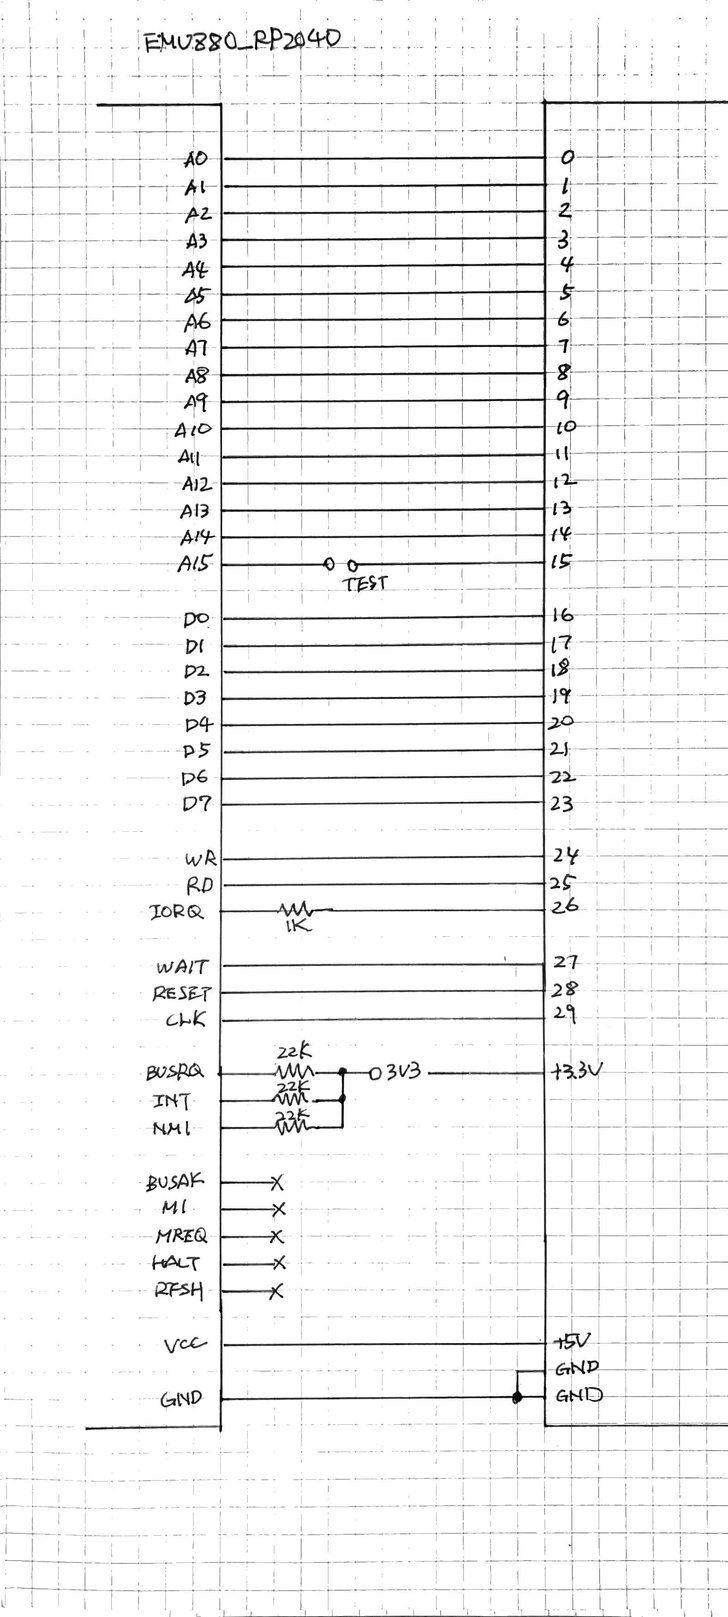
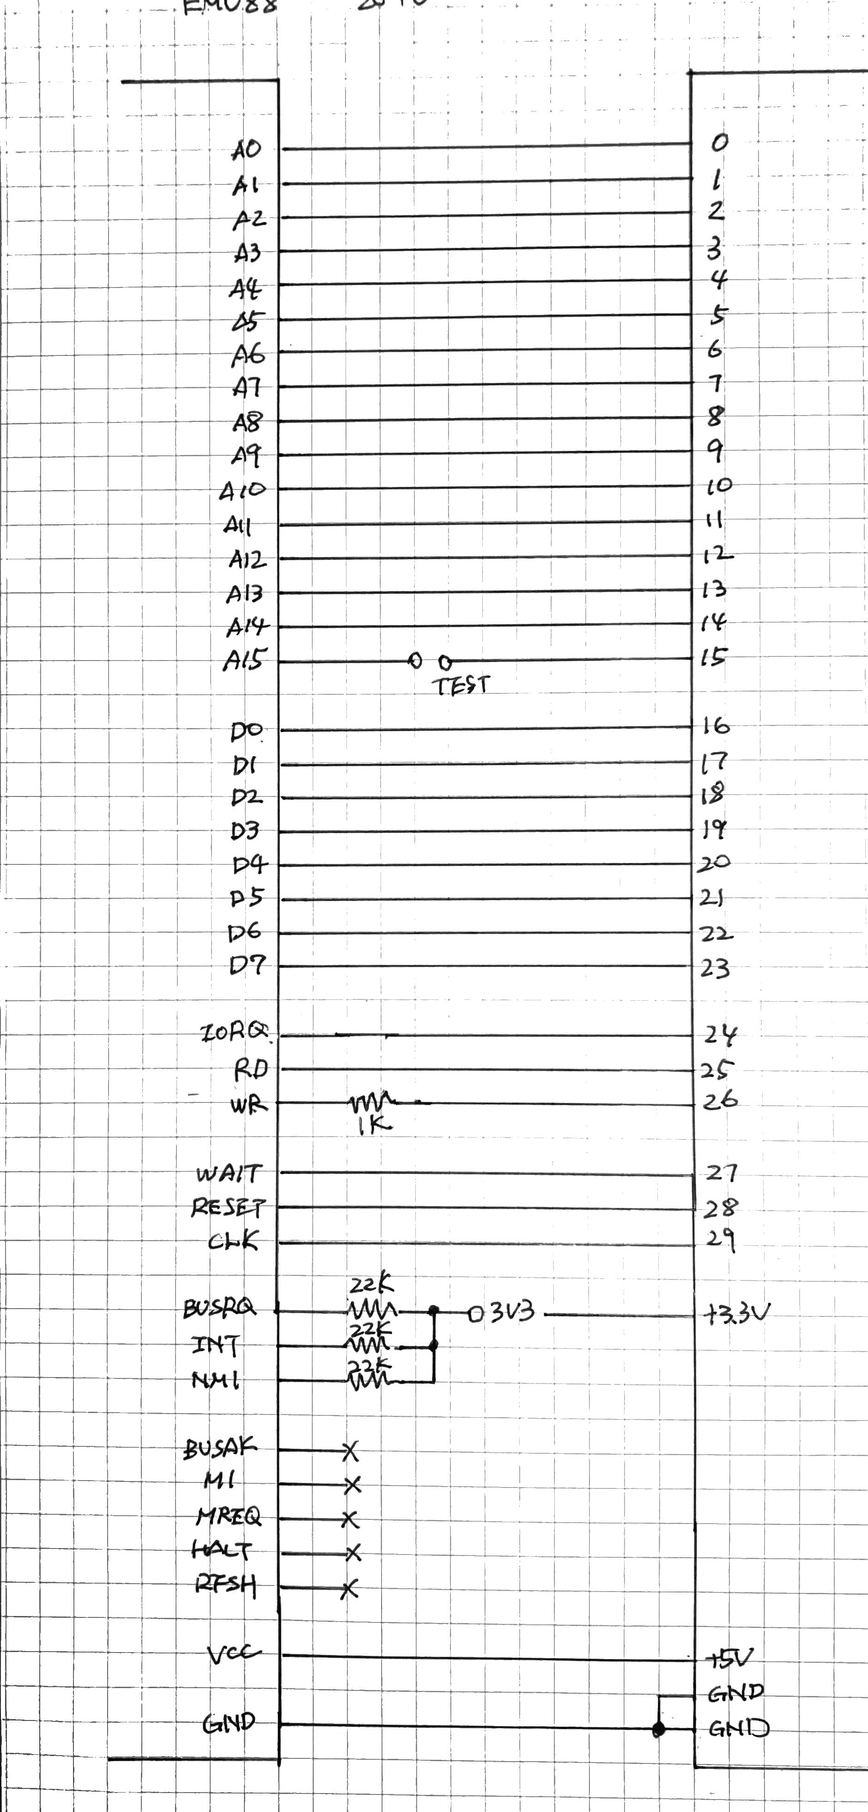
main: add some docs to README.md, AE_RP2-4-_DESIGNMEMO.md

diff --git a/doc/AE_RP2040_DESIGNMEMO.md b/doc/AE_RP2040_DESIGNMEMO.md
@@ -1,2 +1,314 @@
 # EMUZ80_AE_RP2040 設計メモ
 
+AE-RP2040基板によるトライ
+
+## 数命令実行後、限られた値しかフェッチしなくなり、00、80などを実行してしまう。
+
+アドレスバスを見る限り、正しく出しているように見える。いくつか振ってみたが、症状は変わらず。
+
+## RP2040のERRATA-E5
+
+* https://zenn.dev/koron/articles/f1b54678d90f76 に解説がある。
+* USB デバイスコントローラがリセットから抜け出せない、対策のためGPIO15の先につながっているデバッグ回路を使う。対策には800us掛かる。その間はGPIO15は使えない。という話。AE-RP2040ではGPIO15 に RD 受信に使っているので、使えないタイミングが存在するのはまずい。
+* ということで、データシートで示される回避策(`PICO_RP2040_USB_DEVICE_ENUMERATION_FIX=1`)を `CMakeFile.txt` で定義してみた。
+
+```
+set(PICO_RP2040_USB_DEVICE_ENUMERATION_FIX 1)
+```
+
+これにより、数命令しか実行できない、という状況はなくなったように見える。
+
+## INC (HL) を連続して行ったとき、前の命令で書き込んだ値を次の命令のReadサイクルで読み出していない。
+
+<img src="../img/201-timechart-inc-hl-issue.png"/>
+
+INC (HL)の2サイクル目でメモリ読み出し、３サイクル目で(インクリメントした値を)メモリ書き込みを行う。66をリードしてインクリメントして67を書き込んだ次の命令で、66を再度リードしている。
+
+〇書き込みサイクルで書き込む値が1増えた値でない。
+
+<img src="../img/202-inc-hl-bad-behavior.png"/>
+
+67をリード・インクリメントして書き出す値が6Eになっている。
+
+〇ライトサイクルで、データバスの一部信号が安定していない。
+
+上図のライトサイクルで、D2がぎざぎざになっている。
+
+上記の問題はこの症状から引き起こされていると考えている。
+
+残念ながらこの症状の原因究明・対策が打てていない。
+
+> 後で示すとおり、PIO の IN 端子指定で COUNT が指定できない(無関係のビットも読み込んでしまう)ことが原因だった。
+
+〇同じ回路で Pico2 を使うと、問題なく動作する。
+
+AE-RP2040で動作させることができなかったので、メモリリード・ライトサイクル動作を確立するために、Pico/Pico2を使うことにした。WeAct RP2350B board を使いリードライトサイクルで苦労せず動作させることができていたので、RP2040 とRP2350A で動作の違いがあるなら、そこからヒントを得ようと考えたためである。
+
+Pico/PIco2につなぐデータバスを11本(A0-A10)、2kB分だけに抑えると、Raspberry Pi Pico/Pico2 で Z80駆動ができる。EMUBASIC の動作は無理だが、数バイト～数十バイトの機械語プログラムなら 2kB あれば十分である。
+
+|Pico/Pico2 GPIO|Z80 信号|
+|---|---|
+|GPIO0-10|A0-A10|
+|GPIO11-18|D0-D7|
+|GPIO19|/RD|
+|GPIO20|/WR|
+|GPIO21|/IORQ|
+|GPIO22|/WAIT|
+|GPIO26|/RESET|
+|GPIO27|CLK|
+|GPIO28|TEST|
+
+Pico/Pico2 で端子に出ているGPIOすべてを使っている。
+
+テストポイント5(TP5)にGPIO25が取れるが、OUTPUT(Pico/Pico2 -> Z80)として使うにしてもHigh出力ができないため、実質的に使えない。GPIO25 に High を出力しても、TP5の電圧は緑LEDの電圧降下は、1.8～2.2V 程度でこれ以上の電圧に上がらないので、Z80 入力に印可しても Highと認識される気がしない。
+
+@DragonBallEZ さんの Pico2ROMEmuBR(https://github.com/kyo-ta04/Pico2ROMEmuBR)では、TP5から信号を引き出しているが、トランジスタを介してZ80のRESET駆動に使用しているのでさすがである。
+
+<img src="../img/203-pico2-gpio250-schematic.png"/>
+
+私GPIO25をOUTPUT端子として使わなかったのは、OUTPUT端子として必要なのは/WAIT, /RESET, CLK の3本だけでGPIO26-28で足りているからである。
+
+/WAIT,/RESET,CLKのいずれかをGPIO25に逃がしてINPUT端子(/RD,/WR,/IORQ)のいずれか1本をGPIO26-28に引っ越しさせて、A11をつないで4kBまで拡張することも考えられるが、今回はその手は使わなかった。
+
+私は GPIO26-28 を INPUT 端子として使うつもりはない。この3端子は入力として使うときに 5V まで引っ張ることができない。抵抗を挟んで接続すれば大丈夫なのだが、High -> Low に引っ張るときに 100ns 程度掛かるらしいので、Z80 6MHz で駆動したい立場から避けたいと考えた。
+
+TP5から引き出すと取り回しが面倒だというのもある。実験用の回路にそこまでする根性はなかった。
+
+## RP2350 Pin Assign
+
+ピン割り当てを変更し、
+
+```
+D0-D7: 24-31
+RD,WR,IORQ,WAIT: 16,17,18,19
+CLK,INT,RESET,BUSRQ: 40,41,42,43
+```
+
+とした。 
+
+WeAct RP2350B CoreBoard で試作した際に、D0-D7: 16-23 と割り当てていたが、当初、D7 が High にならない問題が発生した。結局 CoreBoard 上のR18, D6, R16 をむしり取った後は期待通り動作した。
+
+GPIO23 は、以下のようなスイッチ回路となっており、プルアップ抵抗または D6 により電圧が十分上げられない(または下げられない)問題が発生していた。
+
+<img src="../img/204-weact-rp2350b-gpio23-sw-schematic.png"/>
+
+RP2350B CoreBoard は安価に手に入る(980円で買える)ので、これを使えるようにしたい。よって、GPIO23 を使わずに済むピン割り当てを考えて、上記に至った。
+
+従来 16-21 だったデータバスを GPIO24-31 に移す。GPIO25 は LED が接続されているが、こちらは問題なく動作する。GPIO16-23 は Z80 の制御信号(Z80側の出力端子)を割り当てる。現状 Z80 制御出力で必要なものは、 RD,WR,IORQの3本で、WAITは制御入力(RP2350B側から見ると出力)なので、GPIO40以後に割り当てるのが原則だが、なんとなくGPIO16-23 の範囲で割り当てた。足りなくなるとGPIO40以後に移してもよいかもしれない。
+
+Pimoroni RP2350B 基板での試作は動作している。
+
+### CLK端子を RP2350B GPIO端子と直結した。
+
+Z80 の CLK 端子は入力電圧範囲が厳しく、High 時に 3.5V 以上を要求する。そう考えて 74HC00 を挟んでドライブしていたのだが、今回は 74HC00 ゲートなしの直結で動作させている。
+
+これでも動作する様子なのでよいだろう。@vintagechips さんの EMUZ80 に敬意を表して、秋月B基板サイズ上に Z80 と RP2350B のみを載せて2チップのみで動作させたい。ゲートを挟まずCLKと直結して動作するかを試してみた。
+
+## RP2040 と RP2350 との差異
+
+Z80 + Pico/Pico2 で挙動を比較した。
+
+Pico2だと動くが、Picoだと動かない。
+
+Z80クロックを変えると挙動が変わる。フェッチするデータが大きく変わったり、WR時のD1だけぶるぶる震えたりする。
+
+### RP2040/RP2350の挙動を調べる。
+
+データシートを見比べる。
+RP2350データシートの「RP2040との違い」の説明の中に、`mov dst, pins` の時のデータが
+
+```
+RP2350: in_countビットより上はマスクされる。
+RP2040: マスクされず32ビット分のデータを読み込む
+```
+
+とある。これだ。
+
+※2つの記述を並べて和訳を付ける。
+
+`mov pc, pins` なので、ステートマシンのプログラムカウンタに直接代入する。この値が 0 か 1か(2以上にならない)ことを想定してPIO機械語プログラムを組んでいる。RP2350は `IN_COUNT = 1` として、ビット0のみ入力され、ビット１以上は0となるようにしている。
+
+RP2040では、`IN_COUNT` フィールドが存在しないので、(API関数もない)指定しようがない。RDの上位ビットのピンの値も読み込まれて、PCに代入されてしまう。アドレス2以上にはコードを置いていないので、何を実行するのか予測できない。多分そういうことが生じているのだろう。
+
+* PicoROMのコードでは、CE/OEの上位ビットはD0-D7がある。
+* D0-D7に対して、inover の値を LOW としている。
+* inoverとは、GPIO入力したときの各ピンの扱い、LOWとは「常に0」とするということ。
+* PicoROMでは、D0-D7は「出力に用いる、データの読み込みはしない」ので、「読み込んだら常に0とする」でも構わない。
+
+PicoROMでは、ピン配置を工夫することで、下位2ビットのみを確実にPCに代入するようにしている、と思われる。
+
+本システムではどうするか？出力ピン4本の手前にRDをつなげばよいが、出力4本は存在しない。AE-RP2040ならば、
+
+|||
+|---|---|
+|29|CLK
+|28|RESET
+|27|WAIT
+|26|RD
+
+ピン26はADCで5V耐性はないが、1kΩ抵抗を直列に接続することで壊れず動作する事例が報告されているので、それを使う。RP2040はGPIOは30本で、GPIO30,31は存在しない。存在しないピンは読み込むとゼロになるはず、なので、GPIO27,28,29に inover LOWを指定することで動くはず。
+
+試作で使用しているPicoでは、
+
+||||
+|---|---|---|
+|19|RD
+|20|WR
+|21|IORQ
+|22|WAIT
+
+だが、RDとIORQを入れ替えると、RDの上は、
+
+|22|Out|WAIT
+|23|Out|SMPS Power Save Pin
+|24|In|VBUS sense
+|25|Out|user LED
+
+となる。22,23,25は出力ピンなので入力オーバライドをLowに固定しても構わない。inover Lowとすると、pindir プログラムをアドレス8,9に割り当ててやればうまく動作しそうだ。
+
+GPIO24も inover LOW にして起動するかのあたりも見ておこう。動作するなら、現状通りアドレス0,1に割り当てられる。
+
+|||
+|---|---|
+|19|RD
+|20|WR
+|21|IORQ
+|22|WAIT
+|23|(SMPS Power Save in)
+
+RDの上4ビットのうち、WAITに input override が効くようにできれば、
+
+```
+.program set_pindirs
+.origin 0
+.side_set 4 pindirs
+    mov pc, pins side 0xf
+    mov pc, pins side 0x0
+    mov pc, pins side 0xf
+    mov pc, pins side 0x0
+    mov pc, pins side 0xf
+    mov pc, pins side 0x0
+    mov pc, pins side 0xf
+    mov pc, pins side 0x0
+```
+
+PIO機械語で下3ビットをカバーすることで動作するはず。
+
+```
+    // input override
+    gpio_set_input_enabled(WAIT_Pin, false);
+    gpio_set_inover(WAIT_Pin, GPIO_OVERRIDE_LOW);
+    gpio_set_slew_rate(WAIT_Pin, GPIO_SLEW_RATE_FAST);
+```
+
+を入れると input override が効くはずだ。
+
+### input override を使ってみる
+
+試したら、
+
+```
+pio_gpio_init(pio1, WAIT_Pin);
+```
+
+より下に置いたら動作した。上ではダメだった。
+PicoROM のコードは、
+
+```
+        pio_gpio_init(prg_data_output.pio(), BASE_DATA_PIN + ofs);
+        gpio_set_dir(BASE_DATA_PIN + ofs, true);
+        gpio_set_drive_strength(BASE_DATA_PIN + ofs, GPIO_DRIVE_STRENGTH_2MA);
+        gpio_set_input_enabled(BASE_DATA_PIN + ofs, false);
+        gpio_set_inover(BASE_DATA_PIN + ofs, GPIO_OVERRIDE_LOW);
+        gpio_set_slew_rate(BASE_DATA_PIN + ofs, GPIO_SLEW_RATE_FAST);
+```
+
+なので、`pio_gpio_init` の後ろで動かしている。これを見習って動作するようになった。
+
+<img src="../img/205-inc-hl-works-good.png"/>
+
+```
+#if 1
+    // inc (hl) loop
+    mem[0] = 0x21; LD (HL),0080H
+    mem[1] = 0x80;
+    mem[2] = 0x00;
+    mem[3] = 0x34; INC (HL)
+    mem[4] = 0x18; JR  $-1
+    mem[5] = 0xfd;
+    mem[6] = 0x0;
+#endif
+```
+
+このコードを動作させロジアナ結果を取った。
+機械語命令も格納したとおり、WRの波形も乱れず、
+`INC (HL)` でメモリ内容が確実にインクリメントされている。
+
+## EMUBASIC を動かそう
+
+Input override 対応でメモリR/Wサイクルは動作するようになった。
+
+ピン配置が
+
+||||
+|---|---|---|
+|24|RD|IN
+|25|WR|IN
+|26|IORQ|IN
+|27|WAIT|OUT
+|28|RESET|OUT
+|29|CLK|OUT
+
+なので、下3ビットに input override は掛けられない。よって、
+
+```
+.program set_pindirs
+.origin 0
+.side_set 4 pindirs
+    mov pc, pins side 0xf
+    mov pc, pins side 0x0
+    mov pc, pins side 0xf
+    mov pc, pins side 0x0
+    mov pc, pins side 0xf
+    mov pc, pins side 0x0
+    mov pc, pins side 0xf
+    mov pc, pins side 0x0
+```
+
+のように、機械語命令8個を並べて3ビット分のアドレスすべてをカバーするようにする。
+
+RDとWRを入れ替えるとIN 2本OUT3本になるので、機械語命令を4個に減らすことができる。次にこれをトライする。
+
+## シリアル出力を繰り返すとハマる。
+
+tinyUSB CDC を疑ったりしたが、結局ロジアナで停止位置を確認すると、そもそも IO Read/Write の処理に全く入っていないことが分かった。
+
+* ハングは常に OUT 命令の IOWriteサイクルで生じていた。WAITがかかるが解除されない。
+* Core1 ループ中の IO Read Write 処理を TOGGLE で挟んでも、ハング時、IO Write サイクルで WAIT が効いている状態で、TOGGLEが入っていない。
+* ここから、IO Read Write 処理に入らずに、その前で処理完結してしまっている。つまり、メモリライト処理に誤って入っていると分かった。
+* RP2040では、IORQ を非FTピンに割り当てているので、1kΩ抵抗を直列に挟んでいる。この抵抗のおかげで、IORQ 信号が変化するエッジがなまり、その分 IORQ が遅れる。
+* Z80のIO Read/Writeサイクルでは、Writeサイクルの場合、IORQ と WR は同時に Low になる。メモリWriteサイクルで、MREQ よりもWRがLow になるのと対照的である。このことに留意しておきたい。
+* よって、IO Write サイクルで IORQ == High, WR == Low の状態が生じることになり、メモリライトサイクルに落ち込んだと考えた。
+
+で、メモリリード処理とメモリライト処理の間に、`port = gpio_get_all();` を挟んだ。これで安定して動作するようになった。
+
+クロック上限は、17.0 分周、3.90MHz (125MHz/2/17.0) で動作する。ASCIIART.BAS実行時間は、5分09秒だった。
+
+## TODO
+
+* 1kΩ抵抗を WR に入れる、IORQ 直結を試す。メモリライトが高速化できるのではないか。
+* RP2040 の GPIO 端子を 5V系CPUにつなぐことについての説明を追記。
+* RP2350A/B では、ADC非対応の端子は、「IOVDDに通電されていれば　5.25Vまで掛けてもよい」と明記されているが、RP2040 ではその旨の記載はない。よって通常のCMOS端子になる。
+* 3.3V駆動のCMOS端子に5Vロジックをつなぐ場合、3.3V側OUT - 5V側INの場合は直結でよい、5V側OUT - 3.3V側INの場合は10kΩ程度の抵抗を挟むとよい、という話がある。5Vより低電圧ロジックを作るにあたり3.3Vと決めた際の背景の解説があり、その記述によるとそうらしい。
+* 安全を考えると、GPIO26-29で入力として使用する端子以外、GPIO0-25も10kΩ抵抗を挟むべきである。が、RP2040でもGPIO0-25(FT端子)は、GPIO26-29(ADC端子)よりも静電気保護回路を強化している旨は明記されている。また、GPIO26-29をINとして使用する際に1kΩを挟んで動作している(シンクロ波形付き)事例も報告されているので、GPIO0-25は直結、26-29は、入力として使用する場合は1kΩを挟むことで、EMUZ80 の美学「Simple is Beautiful」に殉じることにした。
+* 「動けばヨシ」を是としない場合は、本回路を無理に試さなくてもよい。RP2350B を使った2チップ構成で試していただければよいと思う。
+
+## IORQ を GPIO25 に移して 1kΩ抵抗を挟む
+
+IO Write サイクルで IORQ == High, WR == Low の状態が生じるのがよくない。
+
+上記対処では、再度 `port = gpio_get_all()` することで安定状態の入力を得ていたが、
+
+IORQ が Low になった時点で WR が Low になっていてほしい。両方直結だと 
+
+

diff --git a/README.md b/README.md
@@ -2,18 +2,19 @@
 
 Z80 を RP2350B を使用して駆動します。Z80 と WeAct RP2350B Core Board (Raspberry Pi RP2350B chip board) の2デバイスのみで実現しています。
 
-電脳伝説(Twitter @vintagechips)さんに敬意を表して、かの名作 EMUZ80 のシンプルさを再現すべく、上記の成果を使用して、Z80 と DIPデバイス(秋月AE-RP2040)のみで秋月B基板サイズで実現したバージョンも用意しました。
+電脳伝説(Twitter @vintagechips)さんに敬意を表して、かの名作 EMUZ80 のシンプルさを再現すべく、Z80 と DIPデバイス(秋月AE-RP2040)のみで秋月B基板サイズで実現したバージョンも用意しました。
 
 Z80 駆動に先立ち、必要な要素機能の動作確認も兼ねて、ROM エミュレータの試作も行いました。その試行結果は、[ROM_EMULATION.md](doc/ROM_EMULATION.md) に記載してあります。ソースコードはブランチ `rom_emulation` を参照ください。
 
 RP2350B版の試作基板と回路図はこんな感じです。
+Pico2 の開発環境を整えて、PIO プログラミングを試行し、WAIT 発生回路、クロックジェネレータ、UARTシミュレーションを作成し、EMUBASIC を動作させ、ASCIIART.BAS を走らせるところまで進めました。
 
 <div style="frame">
 <img height=250 src="img/007-rp2350b-board.JPEG"/>
 <img height=250 src="img/008-rp2350b-schematic.JPEG"/>
 </div>
 
-Pico2 の開発環境を整えて、PIO プログラミングを試行し、WAIT 発生回路、クロックジェネレータ、UARTシミュレーションを作成し、EMUBASIC を動作させ、ASCIIART.BAS を走らせるところまで進めました。
+AE-RP2040 版の試作基板と回路図は以下の通りです。RP2040 の GPIO 30 本すべてを使用しています。TESTピン1本を割り当てる余裕もありません。
 
 <div style="frame">
 <img height=250 src="img/009-ae-rp2020-board.JPEG"/>
@@ -24,9 +25,9 @@ Pico2 の開発環境を整えて、PIO プログラミングを試行し、WAIT
 
 <img height=350 src="img/011-asciiart-rp2350b.png"/>
 
-RP2350B版(150MHz駆動)で、Z80クロック 6.25MHz/ASCIIART.BAS実行時間 3分13秒、AE_RP2040 版(125MHz駆動)で、Z80クロック4.16MHz/で動作する。ASCIIART.BAS実行時間は、4分49秒だった。
+RP2350B版(150MHz駆動)で、Z80クロック 6.25MHz/ASCIIART.BAS実行時間 3分13秒、AE_RP2040 版(125MHz駆動)で、Z80クロック4.16MHz/で動作します。ASCIIART.BAS実行時間は、4分49秒でした。
 
-Z80チップの種類により、ここまでの速度は出ないかもしれない。上記は NEC upd781-1 だが、Zilog 10MHz C-MOS Z80 の場合は分周比 14.0(5.35MHz) で安定して動作した。
+Z80チップの種類により、ここまでの速度は出ないかもしれません。上記は NEC upd781-1 だが、Zilog 10MHz C-MOS Z80 の場合は分周比 14.0(5.35MHz) でかろうじて安定動作しました。
 
 ## 状況・使い方
 
@@ -84,7 +85,16 @@ PicoROM では、データバス出力の Hi-Z 制御とデータ出力を、`wa
 $ git checkout RP2350B_v1.1
 ```
 
-この試作を経て、Z80 の CLK 端子を RP2350B に直接接続しても Z80 を駆動できることが分かりました。Z80 は CLK 端子が、H最小電圧が 3.5V で、RP2350B の電源電圧以上の電圧で駆動することを求めています。今までは、HC-MOS ゲートを咬ませてそいつに電圧を上げてもらっていたのですが、完全 2 チップではない。HC-MOS ゲートなしで CLK を駆動できるのなら、Z80 と RP2350B の 2チップで構成できるはずです。
+この試作を経て、Z80 の CLK 端子を RP2350B に直接接続しても Z80 を駆動できることが分かりました。Z80 は CLK 端子が、H最小電圧が 3.5V で、RP2350B の電源電圧以上の電圧で駆動することを求めています。今までは、HC-MOS ゲートを咬ませてそいつに電圧を上げてもらっていたのですが、完全 2 チップではない。HC-MOS ゲートなしで CLK を駆動できるのなら、Z80 と RP2350B の 2チップで構成できるはずです。チップ仕様的には保証外なのですが、どうやら動作しているようです。2チップ構成が圧倒的に格好良いので、リスクを冒してもCLK直結すべきと考えて進めています。
+
+## RP2350/RP2040 と 5V電源デバイスとの接続
+
+私は以下の考えに基づいて進めています。参考文献として[このページ](https://www.cepstrum.co.jp/hobby/5v33v/5v33v.html)を挙げておきます。
+
+* 3.3V OUT -> 5V IN: 一般的に、3.3V 電源電圧の C-MOS の場合、出力は 5V電源電圧のデバイス入力に直結してもよい。
+* 入力の直結はよろしくない。10kΩ程度の抵抗を介して接続するのはOKである。
+* RP2350の場合、IOVDD に電圧が印加されている場合は、GPIO0-25 は 5V OUT -> 3.3V IN でも直結して構わない(RP2350Bデータシートの"FT"端子の説明による)。GPIO26-29 の4本は10kΩ抵抗を介して接続するのが筋であるが、1kΩ抵抗で直結している例もあるので、私もそれを採用する。
+* RP2040の場合、IOVDD 云々の話はデータシートに存在しない。よって 5V OUT -> 3.3V IN には10kΩ抵抗を挟むのが筋であるが、実際には直結している。壊れずに動いているからOKという考えによるもので、他人に勧められたものではない。
 
 ## EMUZ80 テイストの再現
 
@@ -101,6 +111,8 @@ Pico/Pico2 の PIO の使い方にある程度習熟し、Z80 と WeAct RP2350B 
 これで30本になります。データバス8本と制御信号6本は必須です。アドレスバスを減らすことはできますが、減らすとZ80用のROM/RAMサイズ合計が減ります。できれば16本割り当てたいところです。
 
 秋月の AE-RP2040 が GPIO0 ～ GPIO29 まで30本すべて端子が出ていることが分かりました。RP2350A で 30本端子が出ている基板はなかなか見つからない。 @74th さんの[作品](https://74th.hateblo.jp/entry/build-my-rp2350a-board)があるのですが、RP2350A を手はんだすることが前提で、組み立てにちょっと自信がないのです。やむを得ないので、入手性を取って AE-RP2040 を使うこととしました。
+
+> Z80側の出力 -> RP2040入力の可能性のある端子を直結しているのは動作無保証であるだけでなく、デバイス破壊の可能性があります。格好良さを重視し・かつ手元で壊れず動作しているのでここで紹介しますが、再現実験される方はリスク覚悟で取り組まれるようにお願いいたします。
 
 ソフト実装は、ブランチ `ae_rp2040` にある通りです。RP2350A と大差はないかと思っていましたが、苦労しました。詳細は、[AE-RP2040設計メモ](./doc/AE_RP2040_DESIGNMEMO.md)を参照ください。
 
